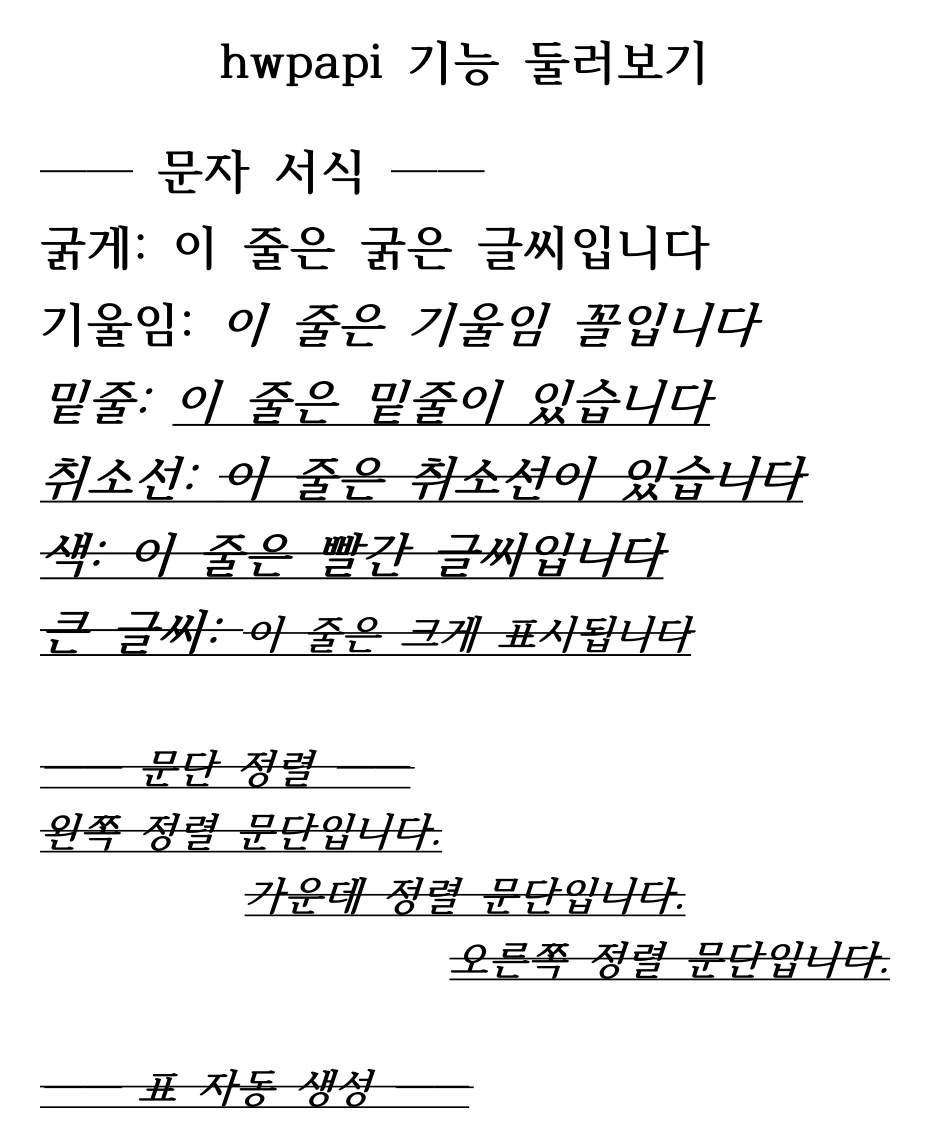
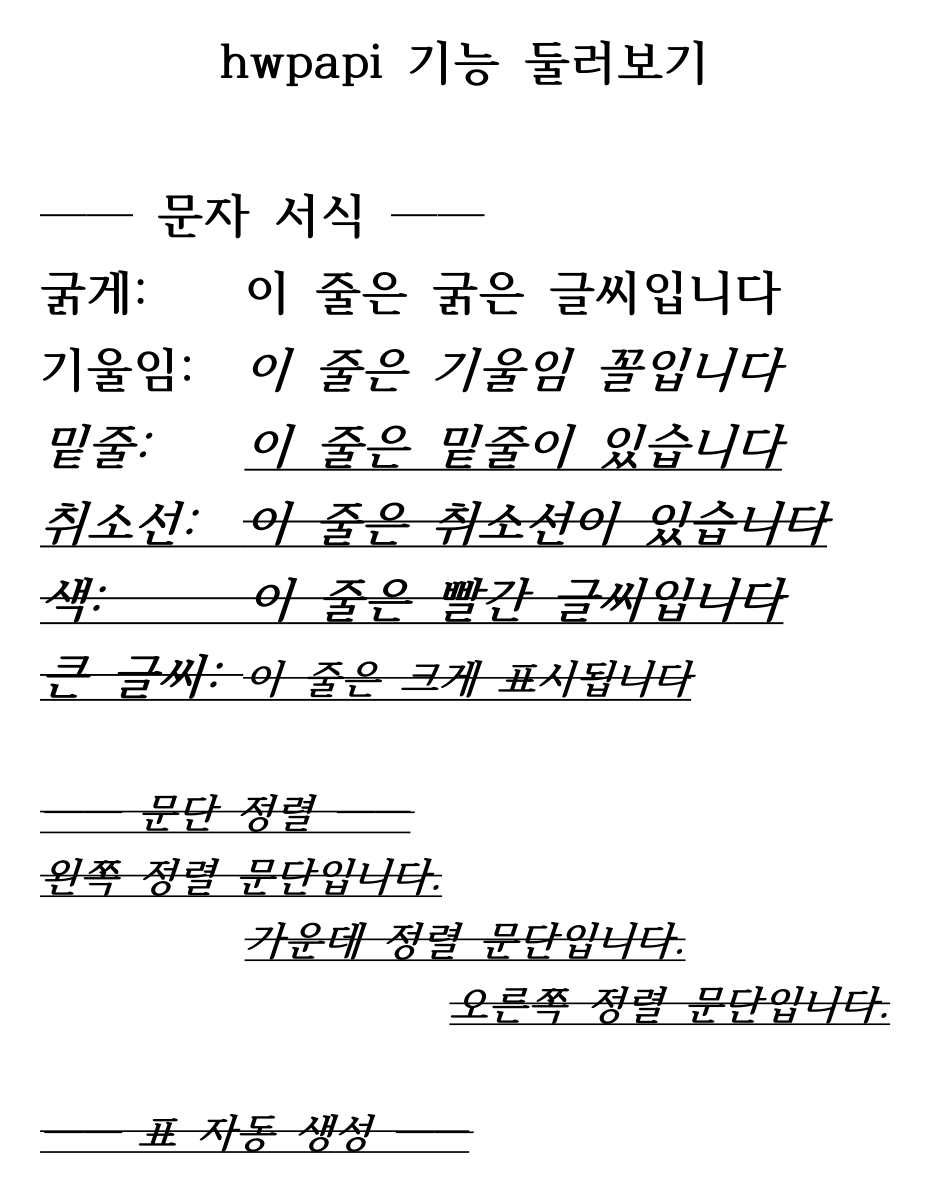
feat: add styled_text() and charshape_scope() — auto-reset formatting
User-facing problem (as reported):

  'strikethrough를 한번 설정하면 다음번엔 끄는 설정을 이어서 하고'

set_charshape(bold=True) changes cursor state so every subsequent
insert_text is bold until explicitly set back. This is error-prone
and tedious.

Two new methods on App that scope formatting automatically:

  app.styled_text(text, **fmt)
  ----------------------------
  Insert text with formatting applied ONLY to that text.
  Internally: insert → select backwards → StyleClearCharStyle
  (to strip any inherited state) → set_charshape → Cancel selection
  → move cursor past + StyleClearCharStyle again.
  Result: the styled text gets exactly the requested formatting,
  and subsequent inserts are clean.

  with app.charshape_scope(**fmt):
      app.insert_text("...")
  --------------------------------
  Context manager version. Records cursor pos on entry, then on exit
  selects everything typed during the block and applies the formatting
  to that selection. Useful for multi-statement blocks.

Works perfectly for: bold, italic, underline_type, strike_out_type,
super_script, sub_script, text_color, height, spacing_hangul.

Known limitation documented in docstring + tutorial callout:

  shade_color (형광펜) has a paragraph-level side effect — HWP creates
  a ParaShape.BorderFill when shade is set, so shade can leak across
  the paragraph boundary. Recommend isolating highlighted text to its
  own line/paragraph.

Other changes:

- tests/generate_doc_artifacts.py 의 feature_tour demo now uses the
[…]

diff --git a/tests/generate_doc_artifacts.py b/tests/generate_doc_artifacts.py
@@ -32,43 +32,25 @@ os.makedirs(IMG_DIR, exist_ok=True)
 DEMOS = {}
 
 DEMOS["demo_feature_tour"] = r"""
-# Title (center, big, bold)
-app.insert_text("hwpapi 기능 둘러보기\n")
-app.move.top_of_file(); app.select_text()
-app.set_charshape(bold=True, height=2400)
+# Title — uses charshape_scope so formatting is auto-reset after
+with app.charshape_scope(bold=True, height=2400):
+    app.insert_text("hwpapi 기능 둘러보기")
 app.set_parashape(align_type=3)
-app.move.bottom_of_file()
-# Clear styles so following content starts clean
-app.api.Run("StyleClearCharStyle")
+# Move past title, back to left align
+app.insert_text("\n")
 app.set_parashape(align_type=1)
 
 app.insert_text("\n── 문자 서식 ──\n")
 
-# Each format on its own line so paragraph-level state resets between.
-# For each line: clear, set format, type, break paragraph.
-def demo_line(label, text, **fmt):
-    app.api.Run("StyleClearCharStyle")
-    app.insert_text(label + ": ")
-    if fmt:
-        app.set_charshape(**fmt)
-    app.insert_text(text)
-    app.api.Run("StyleClearCharStyle")
-    app.insert_text("\n")
+# Each demo uses styled_text so formatting is scoped to the marked word.
+# This is the NEW IDIOMATIC way — no manual bold=True/bold=False pairs.
+app.insert_text("굵게:    "); app.styled_text("이 줄은 굵은 글씨입니다", bold=True);           app.insert_text("\n")
+app.insert_text("기울임:  "); app.styled_text("이 줄은 기울임 꼴입니다", italic=True);          app.insert_text("\n")
+app.insert_text("밑줄:    "); app.styled_text("이 줄은 밑줄이 있습니다", underline_type=1);     app.insert_text("\n")
+app.insert_text("취소선:  "); app.styled_text("이 줄은 취소선이 있습니다", strike_out_type=1);  app.insert_text("\n")
+app.insert_text("색:      "); app.styled_text("이 줄은 빨간 글씨입니다", text_color="#FF0000"); app.insert_text("\n")
+app.insert_text("큰 글씨: "); app.styled_text("이 줄은 크게 표시됩니다", height=2000);          app.insert_text("\n")
 
-demo_line("굵게",    "이 줄은 굵은 글씨입니다", bold=True)
-demo_line("기울임",  "이 줄은 기울임 꼴입니다", italic=True)
-demo_line("밑줄",    "이 줄은 밑줄이 있습니다", underline_type=1)
-demo_line("취소선",  "이 줄은 취소선이 있습니다", strike_out_type=1)
-demo_line("색",      "이 줄은 빨간 글씨입니다", text_color="#FF0000")
-demo_line("큰 글씨", "이 줄은 크게 표시됩니다", height=2000)
-# NB: shade_color (형광펜) intentionally omitted from this multi-line
-# demo — once applied at cursor, HWP's current paragraph retains the
-# paragraph-level fill and there's no public action to clear it without
-# affecting the whole document. The highlighter feature IS shown in
-# the report-generation demo where it's applied to a single span with
-# paragraph-break boundaries.
-
-app.api.Run("StyleClearCharStyle")
 app.insert_text("\n── 문단 정렬 ──\n")
 app.set_parashape(align_type=1); app.insert_text("왼쪽 정렬 문단입니다.\n")
 app.set_parashape(align_type=3); app.insert_text("가운데 정렬 문단입니다.\n")
